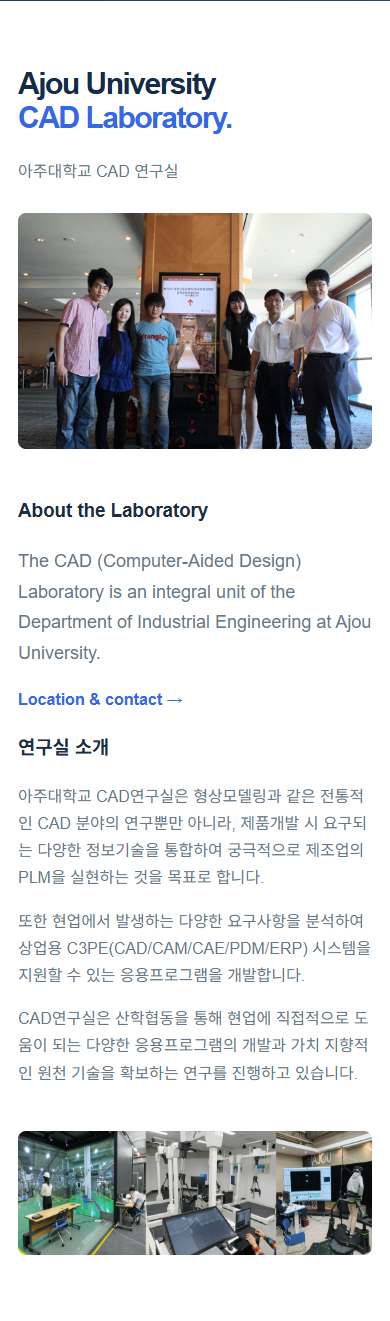
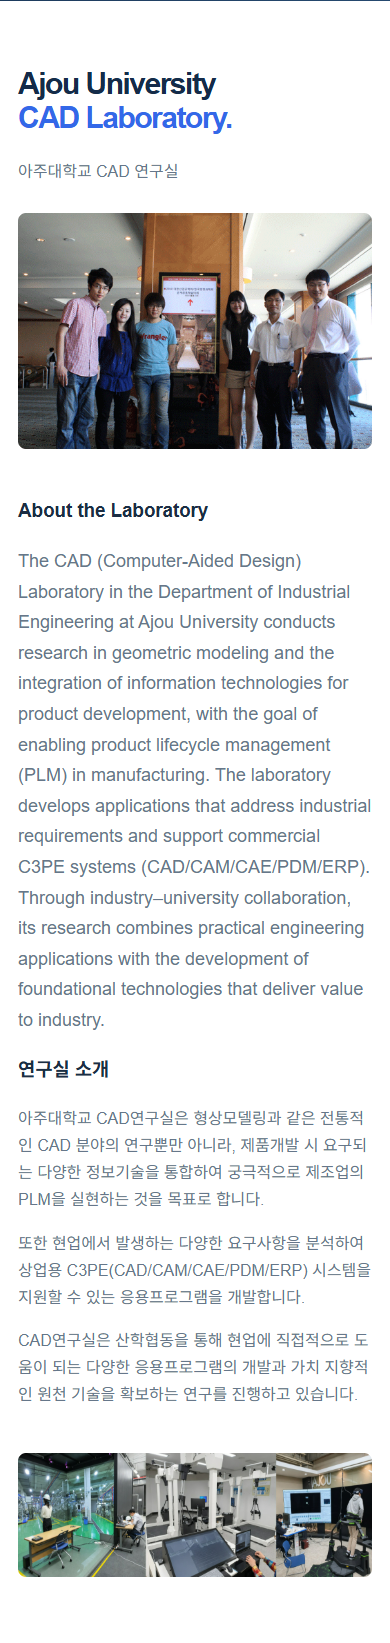
Expand English laboratory introduction and remove contact link

diff --git a/index.html b/index.html
@@ -84,12 +84,9 @@
     <div>
       <h3>About the Laboratory</h3>
       <p id="aboutText" class="muted lead">
-        The CAD (Computer-Aided Design) Laboratory is an
-        integral unit of the Department of Industrial
-        Engineering at Ajou University.
+        The CAD (Computer-Aided Design) Laboratory in the Department of Industrial Engineering at Ajou University conducts research in geometric modeling and the integration of information technologies for product development, with the goal of enabling product lifecycle management (PLM) in manufacturing. The laboratory develops applications that address industrial requirements and support commercial C3PE systems (CAD/CAM/CAE/PDM/ERP). Through industry–university collaboration, its research combines practical engineering applications with the development of foundational technologies that deliver value to industry.
       </p>
 
-      <p><a class="inline-link" href="lab/contact.html">Location &amp; contact →</a></p>
 
       <h3>연구실 소개</h3>
       <p class="muted">

diff --git a/assets/content.js b/assets/content.js
@@ -3,7 +3,7 @@
 window.CADLAB_CONTENT = {
   
 
-about: "The CAD (Computer-Aided Design) Laboratory is an integral unit of the Department of Industrial Engineering at Ajou University.",
+about: "The CAD (Computer-Aided Design) Laboratory in the Department of Industrial Engineering at Ajou University conducts research in geometric modeling and the integration of information technologies for product development, with the goal of enabling product lifecycle management (PLM) in manufacturing. The laboratory develops applications that address industrial requirements and support commercial C3PE systems (CAD/CAM/CAE/PDM/ERP). Through industry–university collaboration, its research combines practical engineering applications with the development of foundational technologies that deliver value to industry.",
 
   research: [
     { title: "CAD / CAM", description: "Computer-aided design and manufacturing research.", descriptionKo: "컴퓨터 지원 설계 및 제조 연구." },

diff --git a/.github/review/hero/README.md b/.github/review/hero/README.md
@@ -89,3 +89,7 @@ Added an AI-restored version of the supplied three-panel facilities photo (2120 
 ## Bilingual Research and People cards
 
 Added Korean descriptions beneath the existing English in all three Research areas cards and three Our people cards. English, titles, links and records are preserved. Korean paragraphs use lang=ko with consistent 12 px spacing and Korean word wrapping. Five-width bilingual checks and existing regressions passed; Research/People screenshots refreshed.
+
+## Expanded English introduction
+
+Removed the selected Location & contact link. Expanded the English About paragraph from the existing Korean introduction: geometric modeling, product-development information integration, manufacturing PLM, commercial C3PE application development and industry–university collaboration. Korean copy and detailed records remain unchanged. Updated both the HTML fallback and dynamic content source; five-width checks and existing regressions passed.
